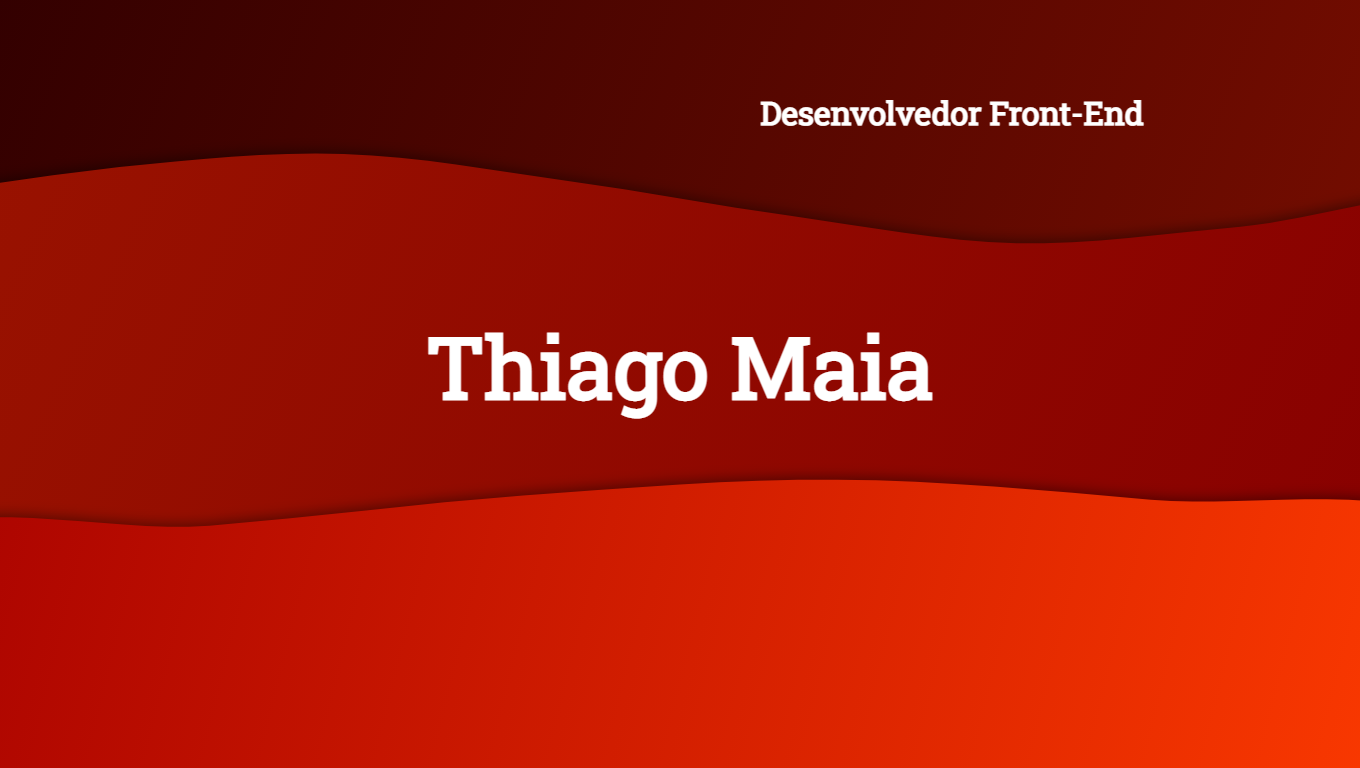
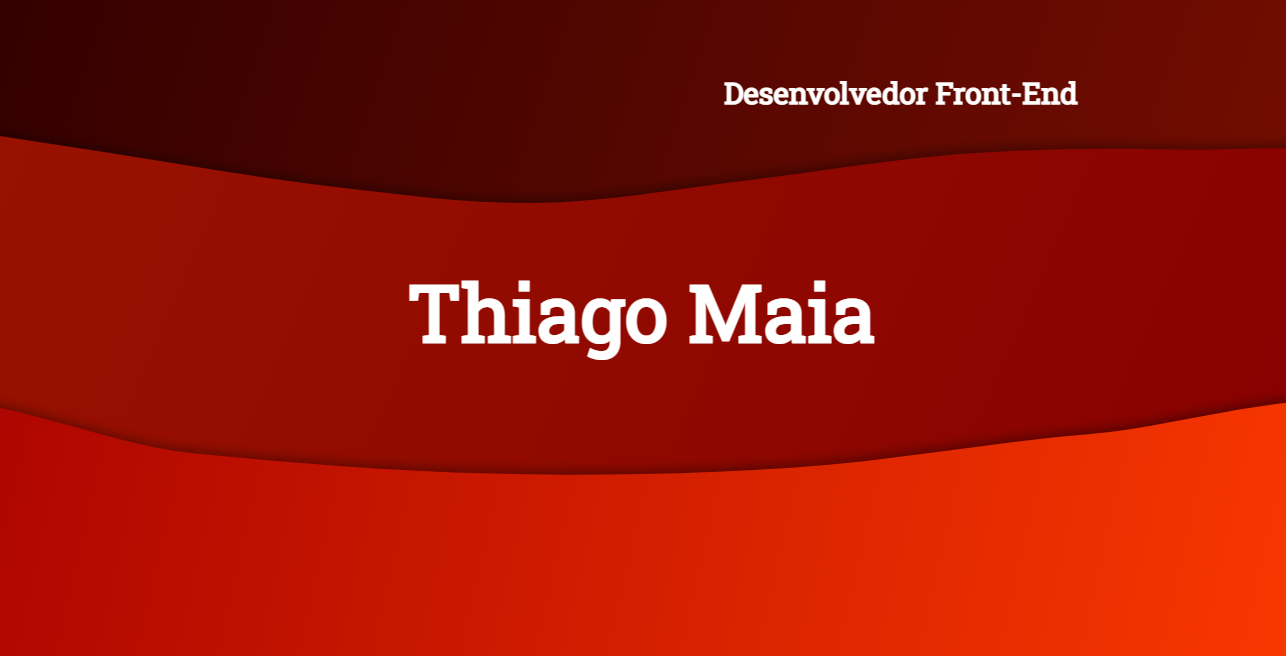
Small style improvements

diff --git a/src/components/ProjectGallery/components/ProjectCard/ProjectCard.tsx b/src/components/ProjectGallery/components/ProjectCard/ProjectCard.tsx
@@ -4,6 +4,7 @@ import OpenProject from '../OpenProject/OpenProject';
 import ClosedProject from '../ClosedProject/ClosedProject';
 import './ProjectCard.scss';
 import useTilt from '../../../../hooks/useTilt';
+import AppearFromBelow from '../../../Animations/AppearFromBelow/AppearFromBelow';
 
 const ProjectCard = ({project} : {project : Project}) => {
 
@@ -32,18 +33,20 @@ const ProjectCard = ({project} : {project : Project}) => {
     }
     
     return (
-        <div id={project.url === window.location.origin ? 'self-card' : ''} className={(open ? 'open ' : '') + 'project-card container'} 
-             style={style}
-             onMouseOver={removeTransition}
-             onMouseOut={() => setHasTransition(true)}
-            ref={refScroll}>
-            {open 
-                ? <OpenProject project={project} onClick={onClick}/> 
-                : <div ref={refTilt} className='tilt-detector' onClick={onClick}>
-                    <ClosedProject logoUri={project.logoUri} title={project.name}/>
-                </div>
-            }
-        </div>
+        <AppearFromBelow>
+            <div id={project.url === window.location.origin ? 'self-card' : ''} className={(open ? 'open ' : '') + 'project-card container'} 
+                style={style}
+                onMouseOver={removeTransition}
+                onMouseOut={() => setHasTransition(true)}
+                ref={refScroll}>
+                {open 
+                    ? <OpenProject project={project} onClick={onClick}/> 
+                    : <div ref={refTilt} className='tilt-detector' onClick={onClick}>
+                        <ClosedProject logoUri={project.logoUri} title={project.name}/>
+                    </div>
+                }
+            </div>
+        </AppearFromBelow>
     )
 }
 

diff --git a/src/components/Animations/Loading/Loading.tsx b/src/components/Animations/Loading/Loading.tsx
@@ -16,15 +16,15 @@ function Loading({active, time} : {active : boolean, time : number}) {
     let localTime = time;
 
     return (
-        <div className='fixed-loading' style={{display: active ? '' : 'none'}}>
+        <div className='fixed-loading' style={{display: active ? '' : 'none', left: 0.03*window.innerWidth, bottom: 0.1*window.innerHeight}}>
             <div className='loading-container'>
                 <PaperElement animation={(scope : paper.PaperScope, canvasId) => {
                     console.log(canvasId);
                     scope.activate();
                     const view = scope.project.view;
                     const radius = view.size.width*proportionOfStar/2;
-                    const lengthStartCenter = radius*1.5;
-                    const starCenter = new scope.Point(lengthStartCenter, view.bounds.height - lengthStartCenter);
+                    const lengthStarCenter = radius*1.5;
+                    const starCenter = new scope.Point(lengthStarCenter, view.bounds.height - lengthStarCenter);
                     let { smoothing, numberOfPoints } = fixedStar;
 
                     var path = new scope.Path.Star(starCenter, numberOfPoints, radius, radius);

diff --git a/public/index.html b/public/index.html
@@ -7,7 +7,10 @@
     <link href="https://fonts.googleapis.com/css2?family=Blinker&family=Nunito&family=Roboto+Slab&family=Merriweather&family=Rubik&family=Work+Sans&family=Montserrat&family=Syne+Mono&family=Ranchers&display=swap" rel="stylesheet">
     <meta name="viewport" content="width=device-width, initial-scale=1" />
     <link rel="canonical" href="thiagomaia.tk"/>
-    <meta property="og:image" content="%PUBLIC_URL%/WebsitePreview.png"/>
+    <meta property="og:image" content="https://firebasestorage.googleapis.com/v0/b/cultue.appspot.com/o/images%2FWebsitePreview.png?alt=media&token=9040423f-65b0-42ee-96f4-e420055ab65d"/>
+    <meta property="og:image:type" content="image/png">
+    <meta property="og:image:width" content="1286">
+    <meta property="og:image:height" content="656">
     <meta property="og:url"content="https://www.thiagomaia.tk/" />
     <meta name="theme-color" content="#FFFFFF" />
     <meta

diff --git a/src/components/Header/HeaderWaves/HeaderWaves.tsx b/src/components/Header/HeaderWaves/HeaderWaves.tsx
@@ -81,15 +81,15 @@ function HeaderWaves() {
         );
         
         const radius = window.innerHeight*0.6*0.2/2;
-        const lengthStartCenter = radius*1.5;
+        const lengthStarCenter = radius*1.5;
         let { smoothing, numberOfPoints } = fixedStar;
-        let starX = sideWidth - window.innerWidth*0.0008;
+        let starX = 0.03*window.innerWidth + lengthStarCenter;
 
         let lastWave = waves[2].path;
 
         const getStarBottom = () => {
             let canvasRect = canvas.getBoundingClientRect();
-            return -canvasRect.top + window.innerHeight*0.9 - lengthStartCenter; 
+            return -canvasRect.top + window.innerHeight*0.9 - lengthStarCenter; 
         }
 
         const getStar = () => {

diff --git a/src/components/basic/SectionTitle/SectionTitle.tsx b/src/components/basic/SectionTitle/SectionTitle.tsx
@@ -1,13 +1,16 @@
 import './SectionTitle.scss';
 import EmDash from '../EmDash/EmDash';
+import AppearFromBelow from '../../Animations/AppearFromBelow/AppearFromBelow';
 
 function SectionTitle({text} : {text : string}) {
 
     return (
-        <div className='section-title'>
-            <div>{text}</div>
-            <div><EmDash/></div>
-        </div>
+        <AppearFromBelow>
+            <div className='section-title'>
+                <div>{text}</div>
+                <div><EmDash/></div>
+            </div>
+        </AppearFromBelow>
     )
 }
 

diff --git a/src/hooks/useAppearFromBelow.ts b/src/hooks/useAppearFromBelow.ts
@@ -7,9 +7,9 @@ export default function useAppearFromBelow () {
     useContext(ScrollContext)
     let ref = useRef<HTMLDivElement>(null);
     let style = useClosingAnimation(
-        ref.current && ref.current.getBoundingClientRect().top < window.innerHeight*0.8,
+        ref.current && ref.current.getBoundingClientRect().top < window.innerHeight*0.9,
         () => void 0,
-        {transform: 'translateY(50px)', opacity: 0},
+        {transform: 'translateY(50%)', opacity: 0},
         {transform: '', opacity: 1},
         500
     );

diff --git a/src/components/Skills/Skills.tsx b/src/components/Skills/Skills.tsx
@@ -39,8 +39,8 @@ function Skills() {
 
     return (
         <div id='skills-section'>
+            <SectionTitle text={getTranslatedSentence('skills')} />
             <AppearFromBelow>
-                <SectionTitle text={getTranslatedSentence('skills')} />
                 <div className='skill-list-container'>
                     {getGroupedSkills(numberOfColumns).map(g =>
                         <div key={g[0].name}>

diff --git a/src/components/AboutMe/AboutMe.tsx b/src/components/AboutMe/AboutMe.tsx
@@ -8,8 +8,8 @@ function AboutMe() {
 
     return (
         <div id='about-me'>
+            <SectionTitle text={getTranslatedSentence('aboutMe')}/>
             <AppearFromBelow>
-                <SectionTitle text={getTranslatedSentence('aboutMe')}/>
                 <div id='about-me-content'>
                     <div id='container-photo-thiago'>
                         <WavePhoto imageUri={'./Foto Thiago.png'}/> 

diff --git a/src/components/Animations/Loading/Loading.scss b/src/components/Animations/Loading/Loading.scss
@@ -6,9 +6,7 @@
 }
 
 .fixed-loading {
-    position: fixed; 
-    bottom: 10vh; 
-    left: 3vw;
+    position: fixed;
     z-index: 200;
     pointer-events: none;
 }
